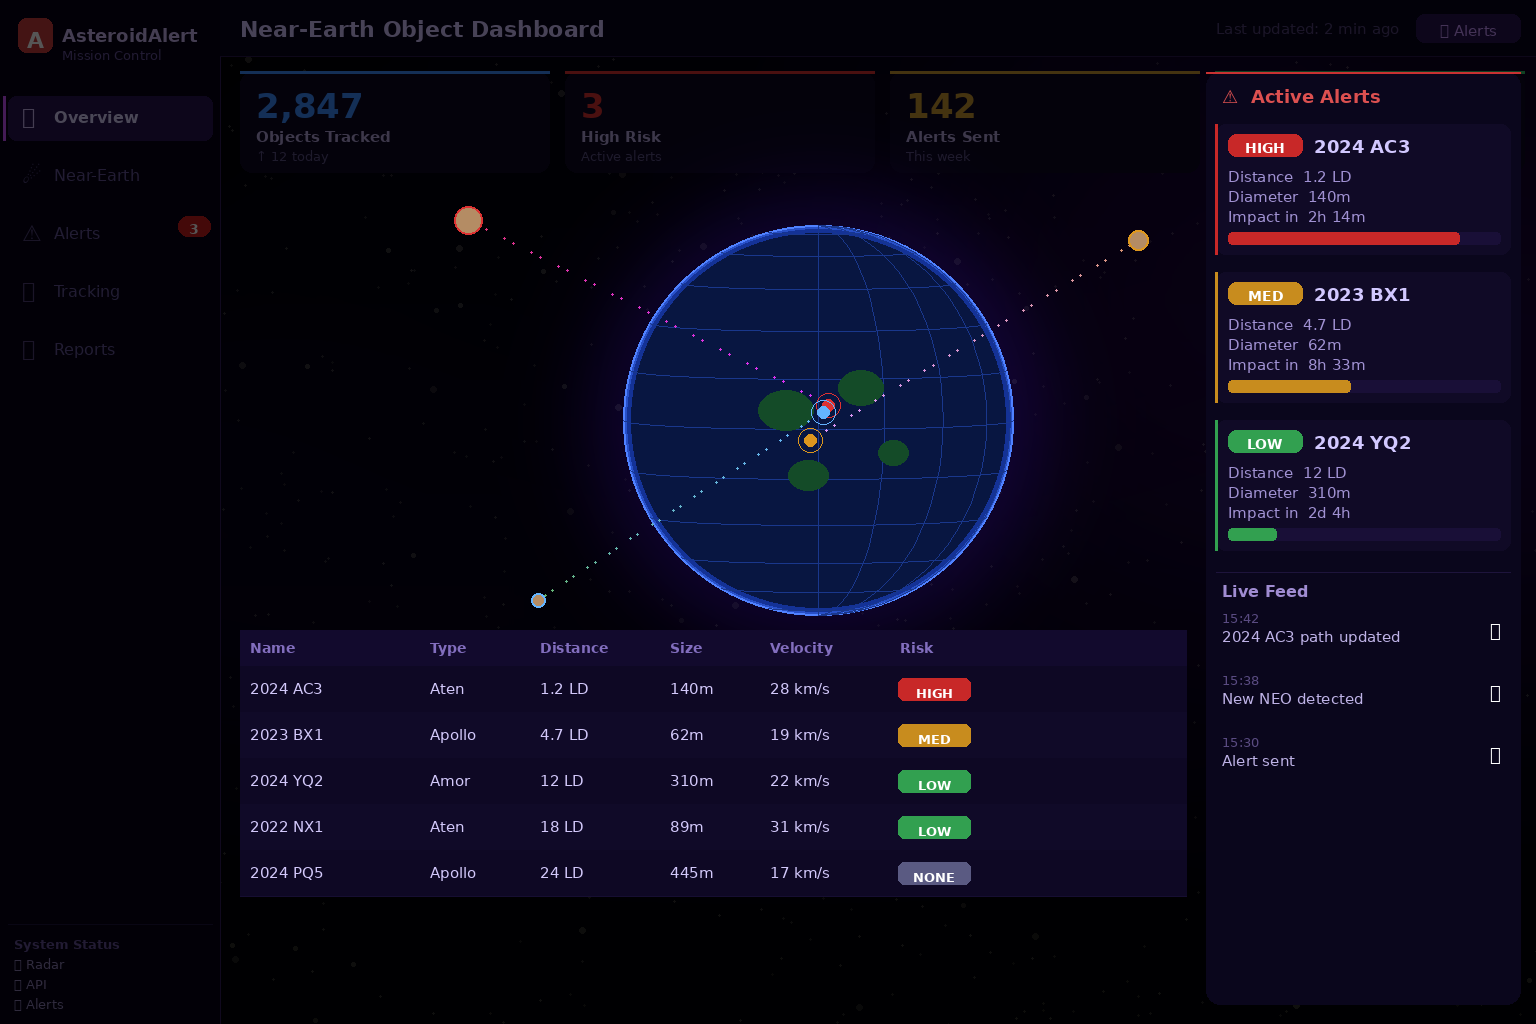
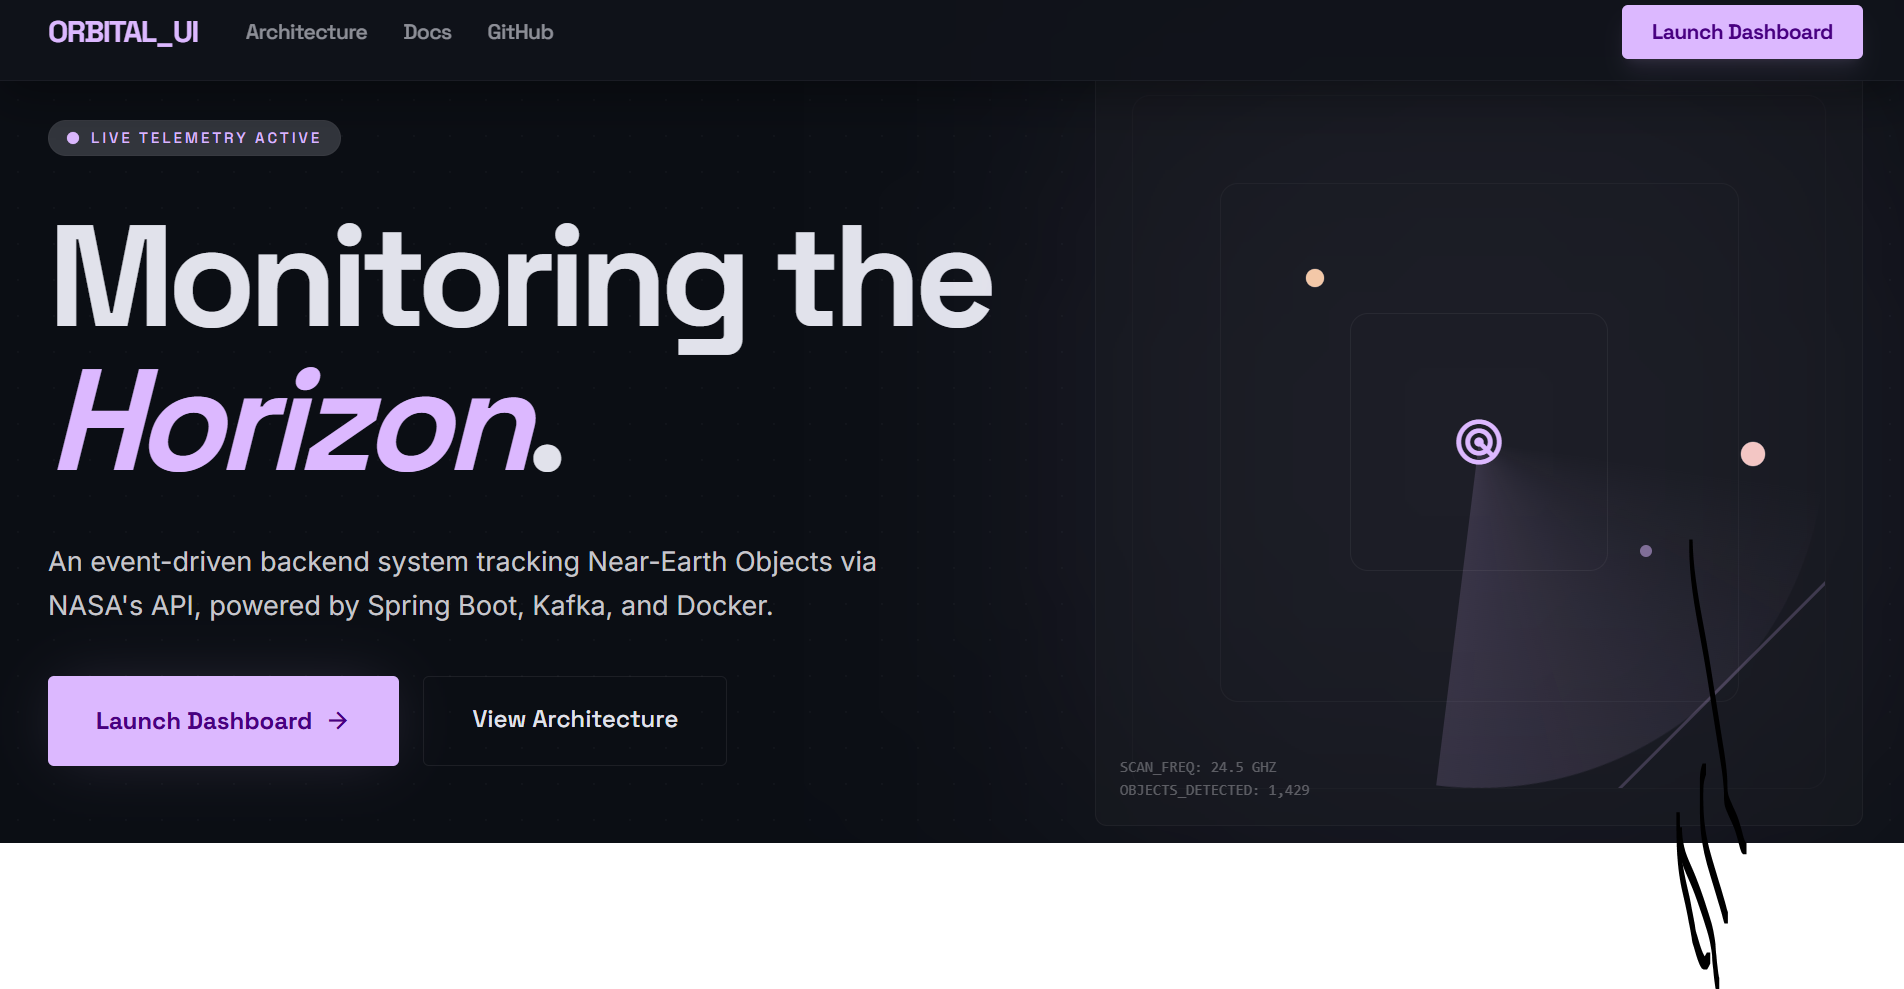
small update

diff --git a/src/sections/Footer.jsx b/src/sections/Footer.jsx
@@ -61,7 +61,7 @@ const Footer = () =>{
           </h1>
         </div>
 
-        <div className="h-[3px] w-24 md:w-32 rounded-full bg-gradient-to-r from-purple-500 via-fuchsia-500 to-purple-500"/>
+        <div className="h-0.75 w-24 md:w-32 rounded-full bg-linear-to-r from-purple-500 via-fuchsia-500 to-purple-500"/>
         <div className="flex gap-5 text-2xl md:text-3xl">
           {socials.map(({Icon, label, href}) =>(
             <motion.a

diff --git a/src/sections/Contact.jsx b/src/sections/Contact.jsx
@@ -74,6 +74,7 @@ export default function Contact(){
     }
     catch(err){
       console.error("EmailJS Error:" ,err);
+      alert(JSON.stringify(err));
       setStatus("error");
     }
 